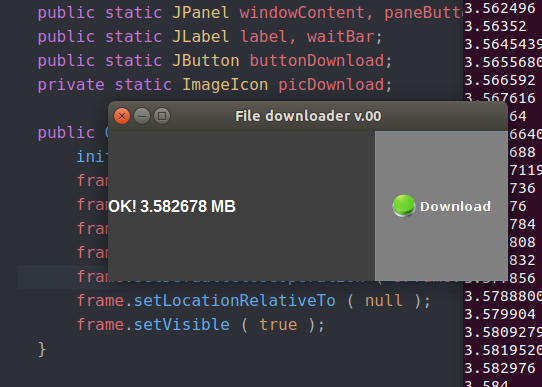
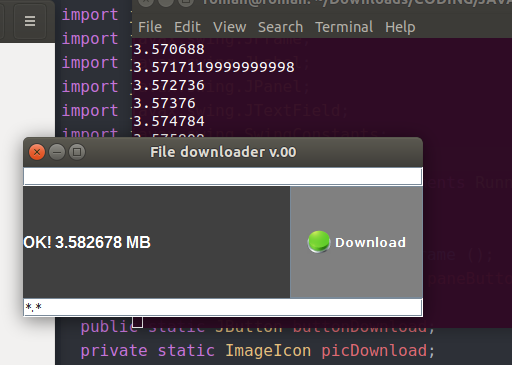
Added the URL field and the file name field with the extension

diff --git a/GUI.java b/GUI.java
@@ -1,4 +1,4 @@
-// Created oct 01 mon 2018
+// Created oct 03 wed 2018
 
 import java.awt.BorderLayout;
 import java.awt.Color;
@@ -10,14 +10,10 @@ import javax.swing.JButton;
 import javax.swing.JFrame;
 import javax.swing.JLabel;
 import javax.swing.JPanel;
+import javax.swing.JTextField;
 import javax.swing.SwingConstants;
 
-import java.io.FileOutputStream;
-import java.io.IOException;
-import java.net.URL;
-import java.io.BufferedInputStream;
-
-public class GUI extends Thread {
+public class GUI extends Thread implements Runnable {
 
   public static BorderLayout border;
   public static JFrame frame = new JFrame ();
@@ -25,6 +21,7 @@ public class GUI extends Thread {
   public static JLabel label, waitBar;
   public static JButton buttonDownload;
   private static ImageIcon picDownload;
+  public static JTextField fieldAddress, fieldOut;
 
   public GUI () {
       initUI ();
@@ -51,59 +48,31 @@ public class GUI extends Thread {
     buttonDownload.setBackground ( Color.GRAY );
     buttonDownload.setForeground ( Color.WHITE );
 
+    fieldAddress = new JTextField ();
+    fieldOut = new JTextField ( "*.*" );
+
     paneButton.setLayout ( new GridLayout ( 1, 1, 0, 0 ) );
     paneButton.add ( buttonDownload );
 
     windowContent.setBackground ( Color.DARK_GRAY );
+    windowContent.add ( fieldAddress, BorderLayout.NORTH );
+    windowContent.add ( fieldOut, BorderLayout.SOUTH );
     windowContent.add ( label, BorderLayout.WEST );
     windowContent.add ( paneButton, BorderLayout.EAST );
 
     //////////////////////////////////////////////////////////////////////////////////////////////////////
     buttonDownload.addActionListener ( ( ActionEvent event ) -> {
       System.out.println ( "button download" );
-      GUI gui = new GUI ();
-      gui.start ();
+      Downloader down = new Downloader ( fieldAddress.getText (), fieldOut.getText () );
+      Thread t1 = new Thread ( down );
+      t1.start ();
     }); // end of adapter
   }
 
-  private void close () {
+  public void close () {
     try {
       Thread.sleep ( 3000 );
     } catch ( InterruptedException e ) { e.printStackTrace (); }
     System.exit ( 0 );
-  }
-
-  public void run () {
-    String FILE_NAME = "audio.mp3";
-    String FILE_URL;
-    String info = null;
-
-    FILE_URL = "https://archive.org/download/Episode1-IntroductionToThePodcast/MBp1.mp3";
-    //FILE_URL = "https://archive.org/download/PlanetoftheApes/Retroist-154-The-Planet-of-the-Apes.mp3";
-    // https://archive.org/details/Episode1-IntroductionToThePodcast
-    try (
-          BufferedInputStream in = new BufferedInputStream ( new URL ( FILE_URL ).openStream () );
-          FileOutputStream fileOutputStream = new FileOutputStream ( FILE_NAME );
-    ) {
-        info = ( ( new URL ( FILE_URL ).openConnection ().getContentLength () ) / 1000000.0 ) + " MB";
-        System.out.println ( info );
-        label.setText ( info );
-
-        byte [] dataBuffer = new byte [ 1024 ];
-        int bytesRead;
-        int i = 0;
-        while ( ( bytesRead = in.read ( dataBuffer, 0, 1024 ) ) != -1 ) {
-          fileOutputStream.write ( dataBuffer, 0, bytesRead );
-          i++;
-          String receivedData = String.valueOf ( ( i * 1.024 ) / 1000.0 );
-          label.setText ( receivedData );
-          System.out.println ( ( i * 1.024 ) / 1000.0 );
-        }
-      } catch ( IOException e ) {
-        System.out.println ( e );
-      }
-      label.setText ( "OK! " + info );
-      System.out.println ( "OK! " + FILE_NAME );
-      close ();
   }
 }

diff --git a/Downloader.java b/Downloader.java
@@ -1,0 +1,49 @@
+// Created oct 03 wed 2018
+//FILE_URL = "https://archive.org/download/Episode1-IntroductionToThePodcast/MBp1.mp3";
+//FILE_URL = "https://archive.org/download/PlanetoftheApes/Retroist-154-The-Planet-of-the-Apes.mp3";
+// https://archive.org/details/Episode1-IntroductionToThePodcast
+
+import java.io.FileOutputStream;
+import java.io.IOException;
+import java.net.URL;
+import java.io.BufferedInputStream;
+
+public class Downloader extends Thread {
+  public static String FILE_URL;
+  public static String FILE_NAME;
+
+  public Downloader ( String FILE_URL, String FILE_NAME ) {
+    this.FILE_URL = FILE_URL;
+    this.FILE_NAME = FILE_NAME;
+  }
+
+public void run () {
+  String info = null;
+  GUI gui = new GUI ();
+
+  try (
+        BufferedInputStream in = new BufferedInputStream ( new URL ( FILE_URL ).openStream () );
+        FileOutputStream fileOutputStream = new FileOutputStream ( FILE_NAME );
+  ) {
+      info = ( ( new URL ( FILE_URL ).openConnection ().getContentLength () ) / 1000000.0 ) + " MB";
+      System.out.println ( info );
+      gui.label.setText ( info );
+
+      byte [] dataBuffer = new byte [ 1024 ];
+      int bytesRead;
+      int i = 0;
+      while ( ( bytesRead = in.read ( dataBuffer, 0, 1024 ) ) != -1 ) {
+        fileOutputStream.write ( dataBuffer, 0, bytesRead );
+        i++;
+        String receivedData = String.valueOf ( ( i * 1.024 ) / 1000.0 );
+        gui.label.setText ( receivedData );
+        System.out.println ( ( i * 1.024 ) / 1000.0 );
+      }
+    } catch ( IOException e ) {
+      System.out.println ( e );
+    }
+    gui.label.setText ( "OK! " + info );
+    System.out.println ( "OK! " + FILE_NAME );
+    gui.close ();
+}
+}

diff --git a/RunProgram.java b/RunProgram.java
@@ -1,4 +1,4 @@
-// Created oct 01 mon 2018
+// Created oct 03 wed 2018
 // reset && javac -d bin RunProgram.java && java -cp bin RunProgram
 
 public class RunProgram {
